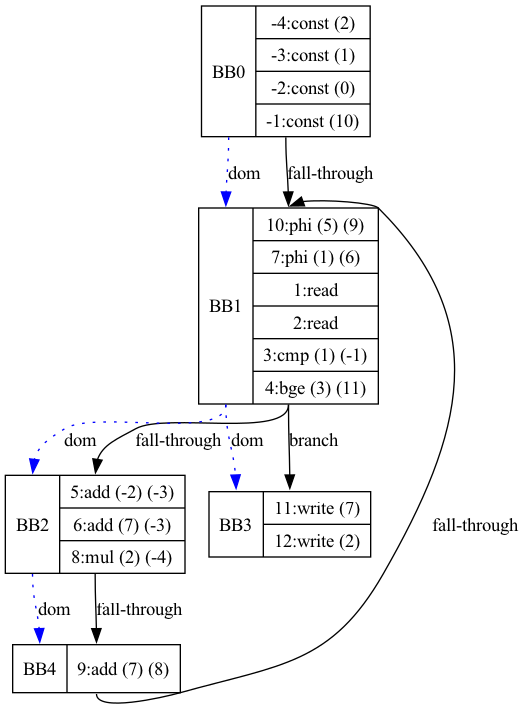
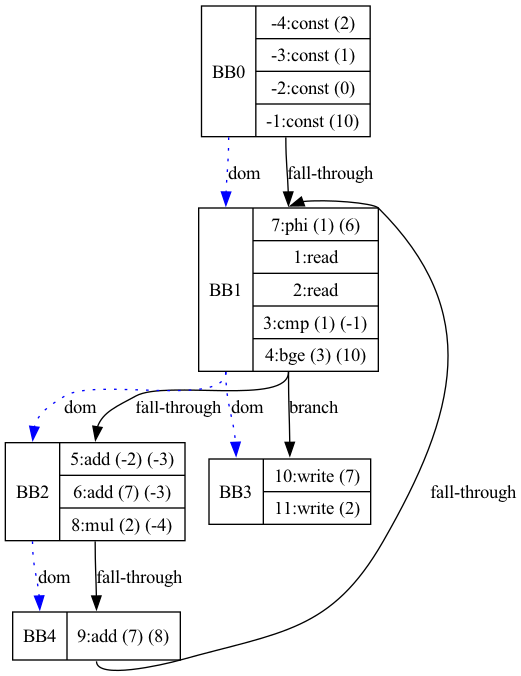
fixed phi (for now), [Parser::sameBranch()=>Parser::SSAisDOM()]; todo - EITHER continue validating phi, or multi-nesting, arrays, & UDF

diff --git a/src/Parser.hpp b/src/Parser.hpp
@@ -7,6 +7,7 @@
 #include <sstream>
 #include <cstring>
 #include <fstream>
+#include <algorithm>
 // #include <stdio.h>
 // #include <cstdio>
 #include "Func.hpp"
@@ -478,6 +479,61 @@ public:
         #ifdef DEBUG
             std::cout << "returning normally: no children remain! curr looks like: " << std::endl << curr->toString() << std::endl;
         #endif
+    }
+
+    // [11.11.2024]: a function which iterates thorough BBs checking to see
+    // - if [oldVal] DOM [newVal]; i.e. they come from the same path then we don't need phi (bc they come from the same path)
+    inline bool SSAisDOM(SSA *oldVal, SSA *newVal) const {
+        #ifdef DEBUG
+            std::cout << "entering [SSAisDOM] with [oldVal && newVal];" << std::endl << "\t[oldVal]: " << oldVal->toString() << std::endl << "\t[newVal]: " << newVal->toString() << std::endl << std::endl;
+        #endif
+        BasicBlock *curr = nullptr;
+        bool oldFound = false;
+
+        std::vector<BasicBlock *>seen = {};
+        std::stack<BasicBlock *> s;
+        s.push(this->BB0);
+        seen.push_back(this->BB0);
+
+        while (!s.empty()) {
+            curr = s.top();
+            s.pop();
+            #ifdef DEBUG
+                std::cout << curr->toString() << std::endl;
+            #endif
+
+            if (curr->findSSA(oldVal)) {
+                #ifdef DEBUG    
+                    std::cout << "found oldVal" << std::endl;
+                #endif
+                oldFound = true; // 11.11.2024: there should be no way that oldVal && newVal are in the sameBB (RIGHT?)
+            }
+            if (curr->findSSA(newVal)) {
+                #ifdef DEBUG
+                    std::cout << "found newVal" << std::endl;
+                #endif
+                if (oldFound) {
+                    return true;
+                } else { // if newVal was seen before old, false
+                    return false;
+                }
+            }
+
+
+            if (curr->child && (std::find(seen.begin(), seen.end(), curr->child) == seen.end())) {
+                s.push(curr->child);
+                seen.push_back(curr->child);
+            }
+            if (curr->child2 && (std::find(seen.begin(), seen.end(), curr->child2) == seen.end())) {
+                s.push(curr->child2);
+                seen.push_back(curr->child2);
+            }
+        }
+        // if we've reached this point, it means that we couldn't find [newVal]
+        #ifdef DEBUG
+            std::cout << "exiting [Parser::SSAisDOM] with return val (false); coudln't find [newVal]: " << newVal->toString() << std::endl;
+        #endif
+        return false; 
     }
 
     inline std::vector<SSA*> getSSA() const { return this->SSA_instrs; }

diff --git a/src/Parser.cpp b/src/Parser.cpp
@@ -435,13 +435,10 @@ SSA* Parser::p2_assignment() {
         // BasicBlock::ssa_table.at(this->currBB->varVals.at(ident))
         
         // if (this->currBB->findSSA(oldVal)) {}
-        if (this->sameBranch(oldVal, value)) {
-            // create a function which iterates thorough BBs checking to see
-            // - if [oldVal] && [value] come from the same path then we don't need phi (bc [value] should dom [oldVal])
-        } else {
+        if (this->SSAisDOM(oldVal, value) == false) {
             #ifdef DEBUG
                 // std::cout << "done p2_assignment value [p_expr()] returned: " << value->toString() << std::endl;
-                std::cout << "about to write new phi-instr into child2" << std::endl;
+                std::cout << "oldVal !DOM newVal" << std::endl << "about to write new phi-instr into child2" << std::endl;
             #endif
 
             // [10.30.2024]: PHI-instr
@@ -498,6 +495,10 @@ SSA* Parser::p2_assignment() {
                 //     blk->varVals.insert_or_assign(ident, table_int); 
                 // }
             }
+        } else {
+            #ifdef DEBUG
+                std::cout << "oldVal DOM's newVal! no need to create phi" << std::endl;
+            #endif
         }
     } else {
         #ifdef DEBUG
